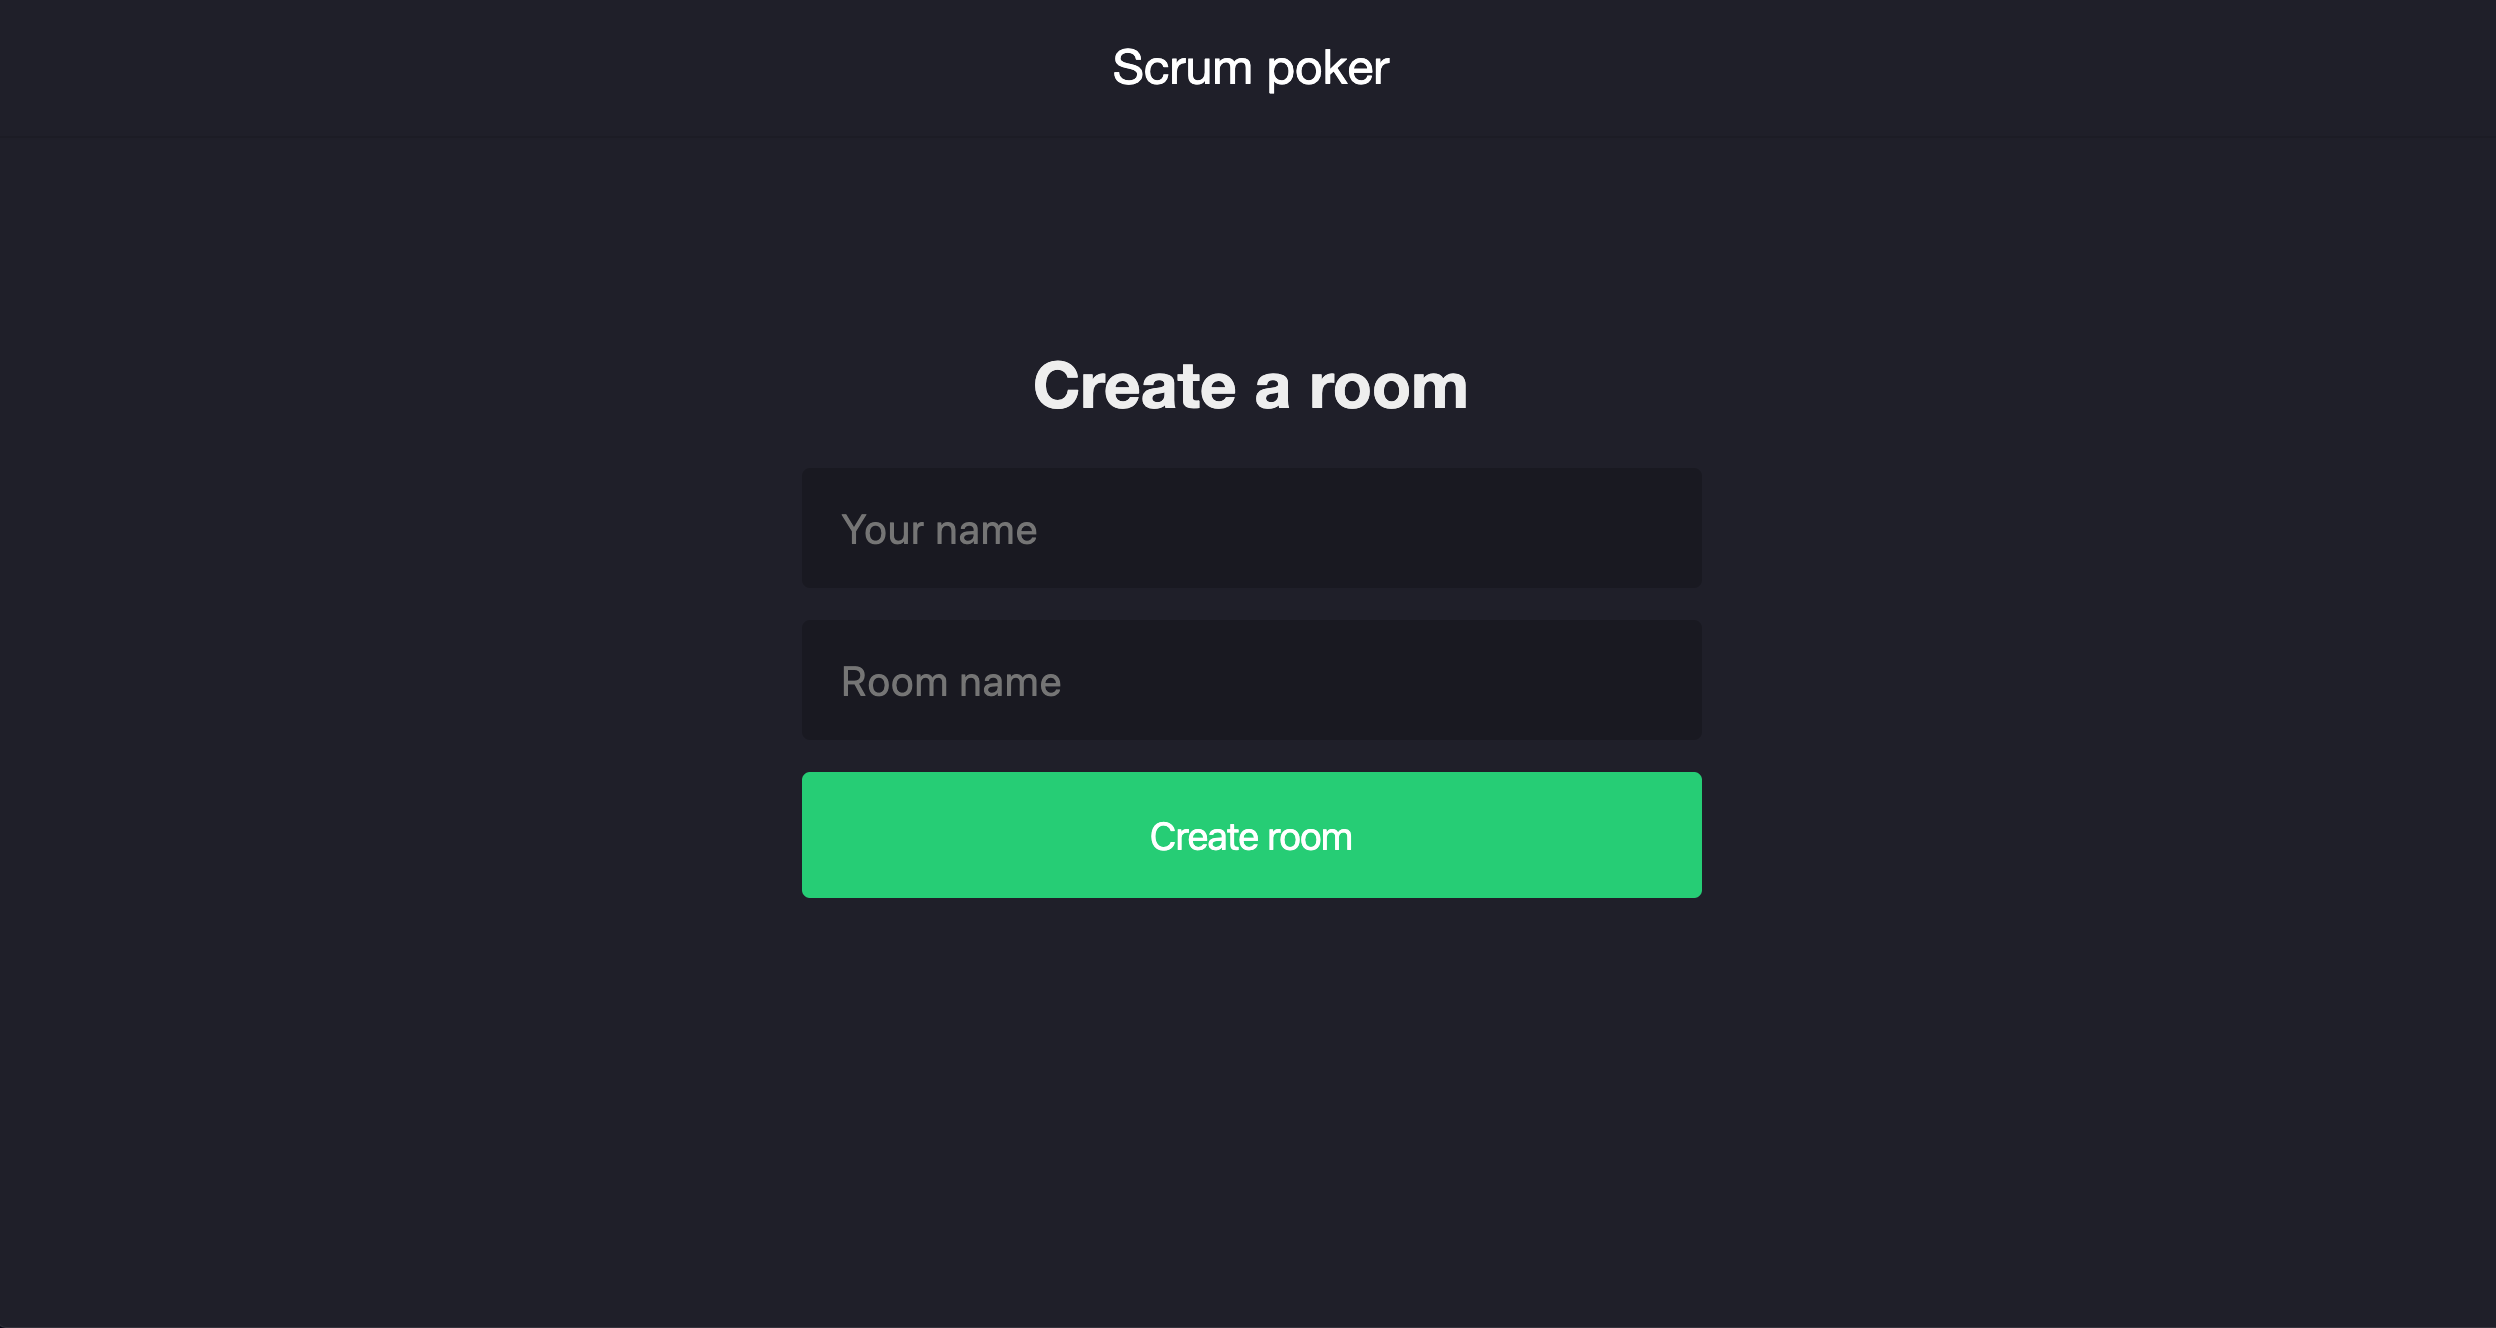
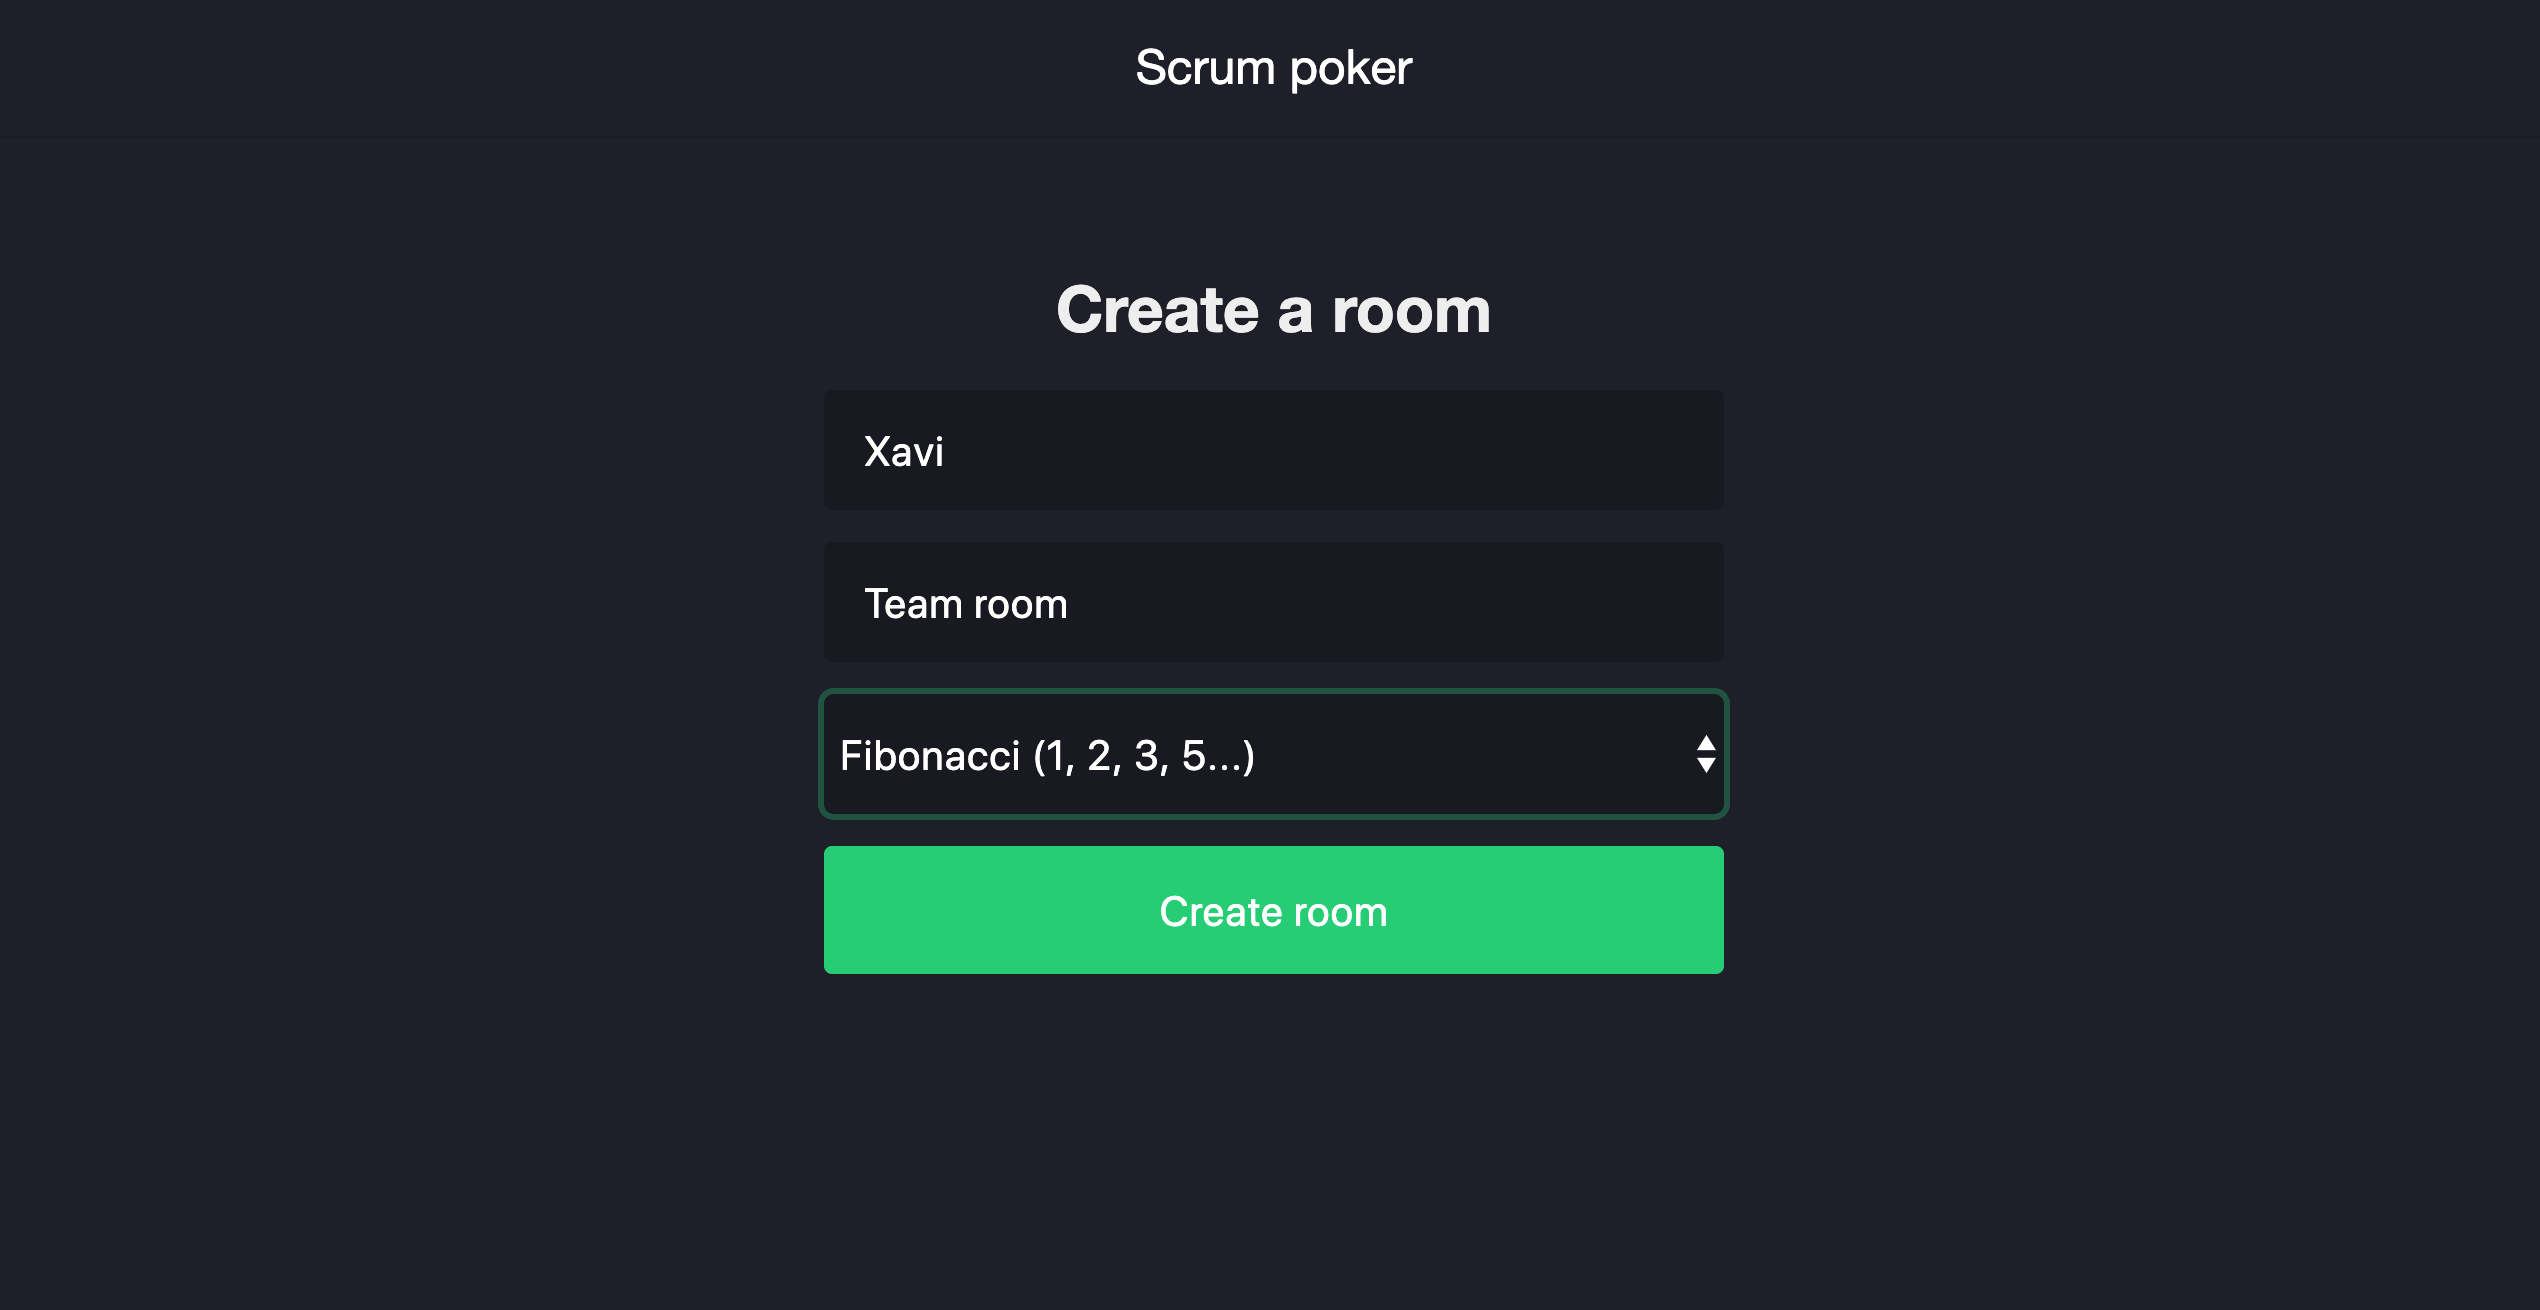
chore: updates readme with new cards mode select

diff --git a/README.md b/README.md
@@ -15,7 +15,7 @@ https://www.scrum-poker.app
 
 Usage example
 
-1. Create a room.
+1. Create a room, selecting the cards mode (either Fibonacci or T-shirt sizing).
 
 ![create a room](./readme-assets/create-room.png)
 
